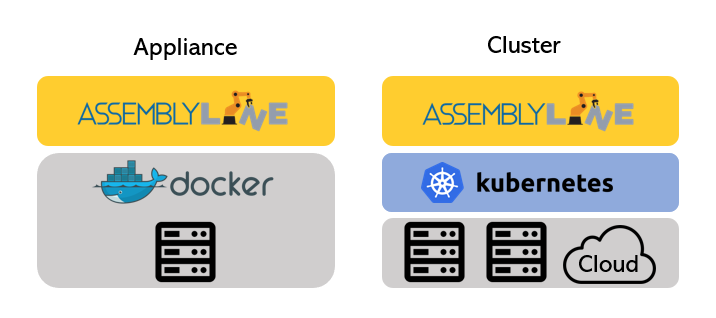
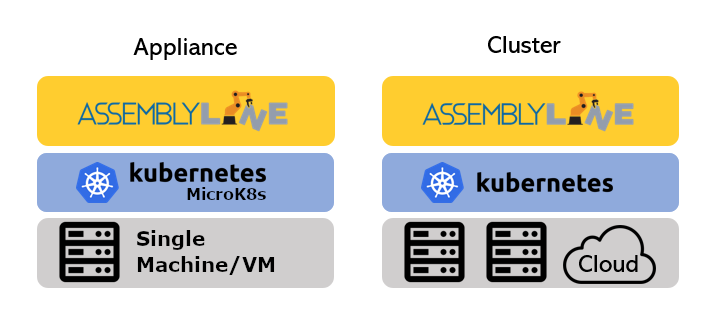
Small fixes to installation instructions

Changed region(s): [[0.0307, 0.4811, 0.4916, 0.9057], [0.4302, 0.8774, 0.4609, 0.9057]]

diff --git a/docs/installation/deployment.md b/docs/installation/deployment.md
@@ -1,9 +1,38 @@
-# Appliance vs Cluster
+# Choose your deployment type
 
-Assemblyline support two deployments type; single host which we call "Appliance" and multi-host or "Cluster". They are the same in terms of analysis capabilities however a cluster deployment can be scaled to scan multiple millions of files per day and offer redundancy and fail over. If you are deploying in the cloud a cluster will be easier to deploy (using cloud kubenetes offerings), however in a lab or to support a incident response team any powerful computer will be able to process thoulsand of files a day.
+Assemblyline has two distinctive deployment types:
+ 
+ * Appliance: Single host deployment 
+ * Cluster: Multi-host deployment 
 
-Keep in mind that you will need extra host for running external resources such as anti-virus products, or sandboxes (such as [Cuckoo Sandbox](https://cuckoosandbox.org/)). Theses complementary products are not mandatory but will greatly complement the static analysis and file extraction performed by Assemblyline.
+!!! warning
+    Keep in mind that you will need extra hosts for running external resources such as anti-virus products, or sandboxes (such as [Cuckoo Sandbox](https://cuckoosandbox.org/)). Theses complementary products are not mandatory but will greatly complement the static analysis and file extraction performed by Assemblyline.
+
+## Features
+
+Both deployments are the same in terms of analysis capabilities however a cluster deployment can be scaled to scan multiple millions of files per day and offer redundancy and fail over. If you are deploying in the cloud a cluster will be easier to deploy (using cloud kubenetes offerings), however in a lab or to support a incident response team any powerful computer with an appliance deployment will be able to process thousand of files a day. 
+
+!!! tip
+    Now that appliances are using kubernetes via microk8s, they can be scale up to a small cluster using multiple machine if needs be. 
+
+### Full features rundown
+
+|                                           | Appliance                              | Cluster                                |
+| ----------------------------------------- | -------------------------------------- | -------------------------------------- |
+| Support all analysis capabilities         | :material-checkbox-marked-outline: Yes | :material-checkbox-marked-outline: Yes |
+| Single host installation                  | :material-checkbox-marked-outline: Yes | :material-checkbox-blank-outline: No   |
+| Multiple host installation                | :material-minus-box-outline: Partial   | :material-checkbox-marked-outline: Yes |
+| Easy step by step installation            | :material-checkbox-marked-outline: Yes | :material-checkbox-blank-outline: No   |
+| High volume througput                     | :material-checkbox-blank-outline: No   | :material-checkbox-marked-outline: Yes |
+| Cloud provider support (AKS, EKS, GCK...) | :material-checkbox-blank-outline: No   | :material-checkbox-marked-outline: Yes |
+| Redundancy / Failover support             | :material-checkbox-blank-outline: No   | :material-checkbox-marked-outline: Yes |
+
+## Installation stack
+
+Both deployment types use a very similar stack in the background which allows them to share the exact same Helm chart. Only small changes in the values.yml file are required to differentiate between a cluster and an appliance deployment.
 
 ![Deployment types](./images/dep_types.png)
+
+## Installation instructions
 
 See [Appliance](../appliance) or [Cluster](../cluster) installation instructions.

diff --git a/docs/installation/appliance.md b/docs/installation/appliance.md
@@ -1,10 +1,11 @@
-# Assemblyline appliance
+# Appliance installation
 
 This is the documentation for an appliance instance of the Assemblyline platform suited for smaller scale deployments. Since we've used microk8s as the backend for this, the appliance setup can later be scaled to multiple nodes.
 
 ## Setup requirements
 
-Note: The documentation provided here assumes that you are installing your appliance on a Ubuntu based system and was only tested on Ubuntu 20.04. You might have to change the commands a bit if you use other linux distributions.
+!!! info "Caveat" 
+    The documentation provided here assumes that you are installing your appliance on a Ubuntu based system and was only tested on Ubuntu 20.04. You might have to change the commands a bit if you use other linux distributions.
 
 ### Install pre-requisites:
 
@@ -34,27 +35,27 @@ sudo microk8s helm repo update
 sudo microk8s helm install ingress-nginx ingress-nginx/ingress-nginx --set controller.hostPort.enabled=true -n ingress
 ```
 
-### Adding more nodes (optional) 
-**Note: This can be done before or after the system is live.**
+??? note "Adding more nodes (optional)"
+    **Note: This can be done before or after the system is live.**
 
-From the master node, run:
-```
-sudo microk8s add-node
-```
+    From the master node, run:
+    ```
+    sudo microk8s add-node
+    ```
 
-This will generate a command with a token to be executed on a standby node.
+    This will generate a command with a token to be executed on a standby node.
 
-On your standby node, ensure the microk8s ```ha-cluster``` addon is enabled before
-running the command from the master to join the cluster.
+    On your standby node, ensure the microk8s ```ha-cluster``` addon is enabled before
+    running the command from the master to join the cluster.
 
-To verify the nodes are connected, run (on any node): 
-```
-sudo microk8s kubectl get nodes
-```
+    To verify the nodes are connected, run (on any node): 
+    ```
+    sudo microk8s kubectl get nodes
+    ```
 
-Repeat this process for any additional standby nodes that's to be added.
+    Repeat this process for any additional standby nodes that's to be added.
 
-For more details, see: [Clustering with MicroK8s](https://microk8s.io/docs/clustering)
+    For more details, see: [Clustering with MicroK8s](https://microk8s.io/docs/clustering)
 
 ## Get the Assemblyline chart to your computer
 
@@ -76,7 +77,10 @@ cp ~/git/assemblyline-helm-chart/appliance/*.yaml ~/git/deployment
 
 The ```values.yaml``` file in your deployment directory ```~/git/deployment``` is already pre-configured for use with microk8s as a basic one node minimal appliance. Make sure you go through the file to adjust disk sizes and to turn on/off features to your liking.
 
-The ```secret.yaml``` file in your deployment directory is preconfigured with default passwords, you should definitely change them. (NOTE: the secrets are used to setup during bootstrap so make sure you change them before deploy the al chart.)
+The ```secret.yaml``` file in your deployment directory is preconfigured with default passwords, you should definitely change them. 
+
+!!! tip
+    The secrets are used to setup during bootstrap so make sure you change them before deploy the al chart.
 
 ## Deploy Assemblyline via Helm:
 

diff --git a/docs/installation/cluster.md b/docs/installation/cluster.md
@@ -1,4 +1,4 @@
-# Assemblyline cluster
+# Cluster installation
 
 ## Pre-requisites
 
